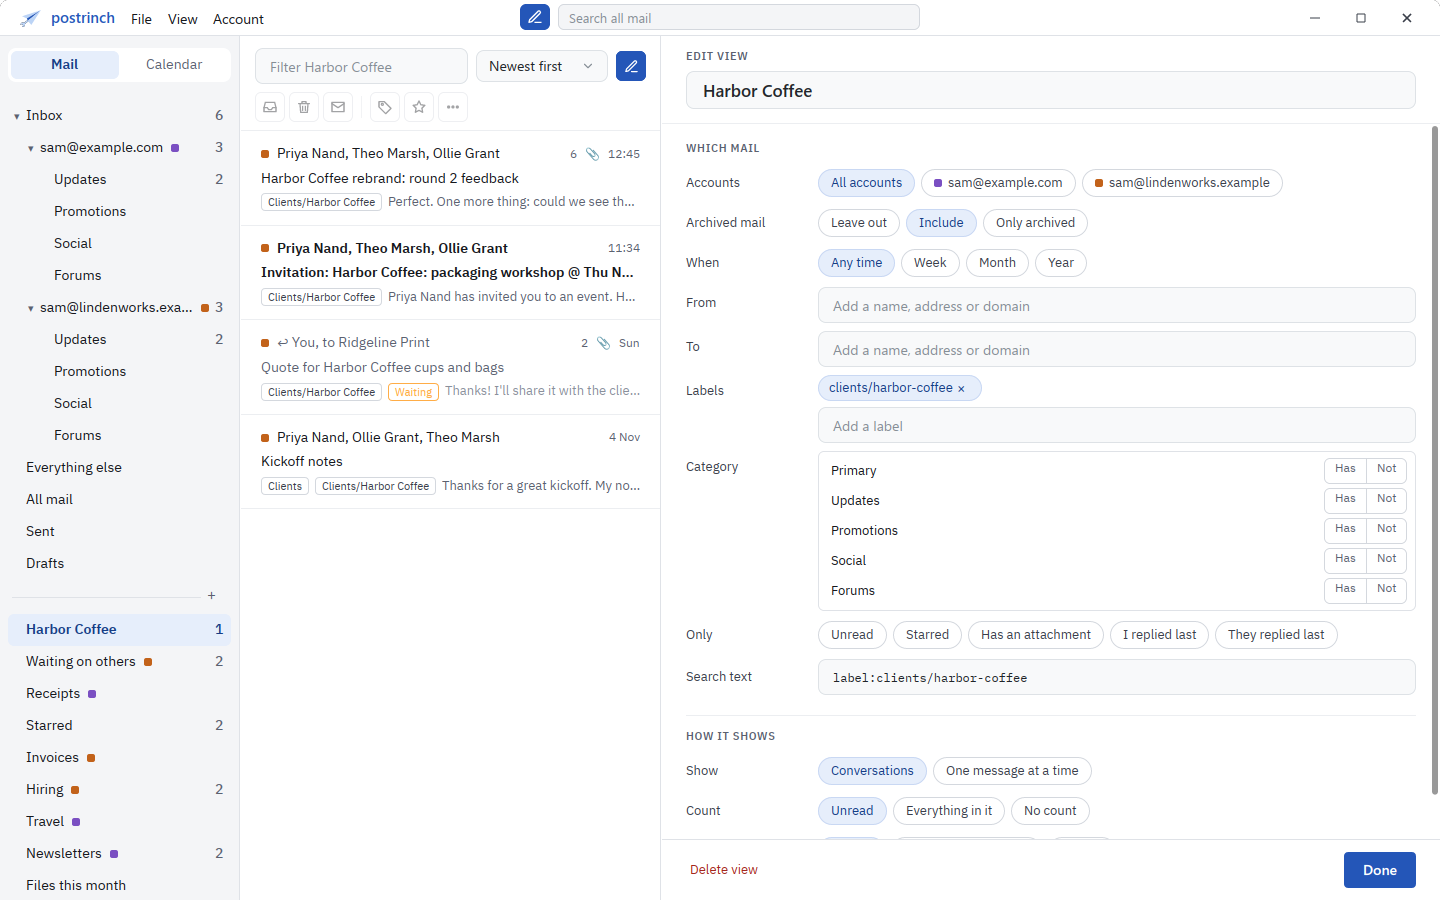
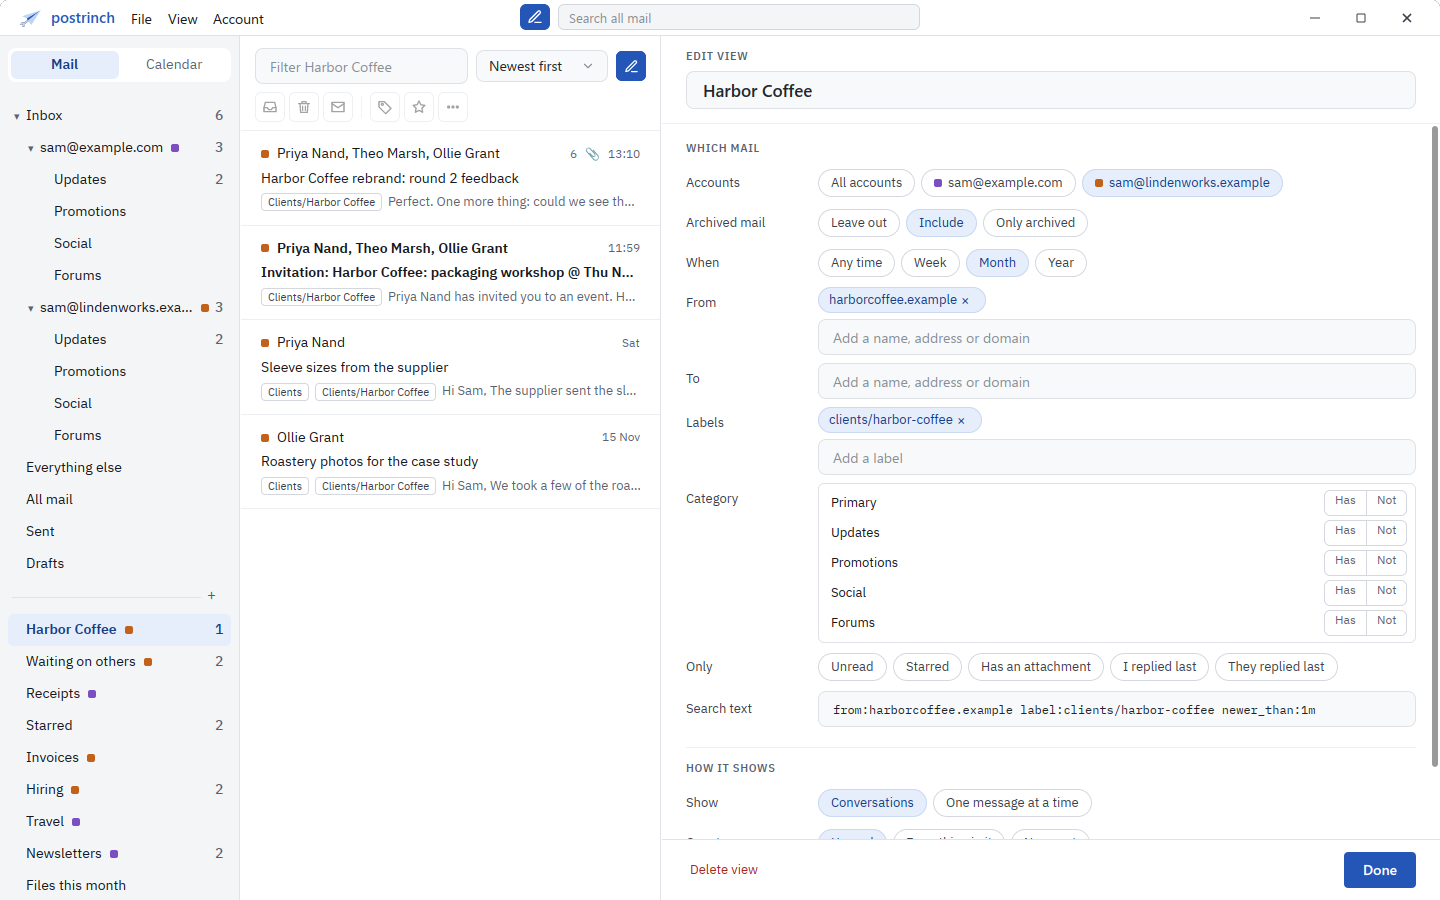
Demo store: dark shots, Claude connected, a fuller views panel
- Twelve shots: mail, views, search, calendar, rules and agents, each in
  light and dark, 1440x900 as the window rendered them.
- tools/demo-shots.py drives a demo window through rinch's debug server
  (clicks on elements found by their text, typing, keys) and takes them.
- The Harbor Coffee view filters on sender, label and month, so its
  panel shows several fields; two more Harbor threads fill its list.
- demo-window.sh gives the scratch HOME empty ~/.claude, Claude config
  and ~/.cursor folders, so Agents finds Claude and Cursor there, and
  unsets CODEX_HOME so the real one is never seen.

diff --git a/tools/demo-shots.py b/tools/demo-shots.py
@@ -1,0 +1,196 @@
+#!/usr/bin/env python3
+"""Take the website's screenshots from a demo window.
+
+    tools/demo-window.sh --debug <scratch>          # light; prints its pid
+    tools/demo-shots.py take <pid> site/public/assets/shots
+    tools/demo-window.sh --dark --debug <scratch>
+    tools/demo-shots.py take <pid> site/public/assets/shots --suffix -dark
+
+It drives the window through rinch's debug server, as a person would:
+clicks on elements found by their text, typing and keys, never anything
+the window could not do itself. Each shot is the 1440x900 window as it
+rendered. `find <pid> <selector> [text]` lists matching elements, for
+working out a new step.
+
+Only the standard library; the debug server's protocol is a 4-byte
+big-endian length, then JSON.
+"""
+
+import argparse
+import base64
+import json
+import os
+import socket
+import struct
+import sys
+import time
+
+
+class Window:
+    """One demo window's debug server."""
+
+    def __init__(self, pid):
+        with open(os.path.expanduser(f"~/.rinch/debug/{pid}.json")) as f:
+            found = json.load(f)
+        self.sock = socket.create_connection(("127.0.0.1", found["port"]))
+        self.next_id = 0
+        self._send({"protocol": "rinch-debug", "version": 1, "token": found["token"]})
+        self._recv()
+
+    def _send(self, obj):
+        data = json.dumps(obj).encode()
+        self.sock.sendall(struct.pack(">I", len(data)) + data)
+
+    def _exact(self, n):
+        out = b""
+        while len(out) < n:
+            chunk = self.sock.recv(n - len(out))
+            if not chunk:
+                raise EOFError("the window closed the connection")
+            out += chunk
+        return out
+
+    def _recv(self):
+        (n,) = struct.unpack(">I", self._exact(4))
+        return json.loads(self._exact(n))
+
+    def call(self, method, params=None):
+        self.next_id += 1
+        request = {"id": self.next_id, "method": method}
+        if params is not None:
+            request["params"] = params
+        self._send(request)
+        reply = self._recv()
+        if reply.get("type") == "error":
+            raise RuntimeError(f"{method}: {reply.get('message')}")
+        if reply.get("type") == "bytes":
+            return base64.b64decode(reply["data"])
+        return reply.get("data")
+
+    def find(self, selector, text=None):
+        """Elements matching `selector` whose text contains `text`, in
+        document order: those shown, as a hidden one has no size."""
+        found = self.call("query_selector", {"selector": selector}) or []
+        return [
+            e
+            for e in found
+            if e["absolute"]["width"] > 0
+            and e["absolute"]["height"] > 0
+            and (text is None or text in (e.get("text_content") or ""))
+        ]
+
+    def click(self, selector, text=None, nth=0, settle=0.8):
+        """Click the middle of the nth element matching (from the end when
+        negative), waiting for it to appear (up to five seconds)."""
+        for _ in range(25):
+            found = self.find(selector, text)
+            if len(found) >= (nth + 1 if nth >= 0 else -nth):
+                box = found[nth]["absolute"]
+                x = box["x"] + box["width"] / 2
+                y = box["y"] + box["height"] / 2
+                self.call("click", {"x": x, "y": y})
+                time.sleep(settle)
+                return
+            time.sleep(0.2)
+        raise LookupError(f"nothing matches {selector!r} with {text!r}")
+
+    def type(self, text):
+        self.call("type_text", {"text": text})
+
+    def key(self, key):
+        self.call("key_press", {"key": key, "shift": False, "ctrl": False, "alt": False})
+        time.sleep(0.8)
+
+    def shot(self, path):
+        png = self.call("screenshot")
+        with open(path, "wb") as f:
+            f.write(png)
+        width, height = struct.unpack(">II", png[16:24])
+        if (width, height) != (1440, 900):
+            raise RuntimeError(f"{path} is {width}x{height}, not 1440x900")
+        print(f"wrote {path}")
+
+
+def settings(w, section):
+    """Open Settings from the File menu, at `section`."""
+    w.click(".rinch-app-menu-item__label", "File")
+    w.click(".rinch-app-menu-entry", "Settings…")
+    w.click(".settings-nav .folder", section)
+
+
+def take(w, out, suffix):
+    """Take the six shots, in an order where each starts from where the
+    last left the window."""
+
+    def path(name):
+        return os.path.join(out, f"{name}{suffix}.png")
+
+    # Mail: the client thread, the message with its PDF open too.
+    w.click(".list .row", "Harbor Coffee rebrand: round 2 feedback")
+    w.click(".message-folded", "Here are our notes")
+    w.shot(path("mail"))
+
+    # Views: the person's Harbor Coffee view, its edit panel open beside
+    # the list it shows.
+    w.click(".view-row", "Harbor Coffee")
+    w.click("button.list-edit")
+    w.shot(path("views"))
+    w.click("button", "Done")
+
+    # Search: mail with files this month, a receipt open.
+    w.click("input[placeholder='Search all mail']")
+    w.type("has:attachment newer_than:30d")
+    w.key("Enter")
+    w.click(".list .row", "Your receipt from Paper Crane Shop")
+    w.shot(path("search"))
+    w.click(".unsaved .row-close")
+
+    # Calendar: this week, the workshop the person hasn't answered open.
+    w.click("button.mode", "Calendar", settle=1.5)
+    w.click(".cal-event", "Harbor Coffee: packaging workshop")
+    w.shot(path("calendar"))
+
+    # Rules: the work account's Harbor Coffee rule, in its editor.
+    settings(w, "Rules")
+    w.click(".rules-chip", "sam@lindenworks.example")
+    w.click(".rule-name", "Harbor Coffee", settle=1.5)
+    w.shot(path("rules"))
+    w.click(".rinch-modal button", "Cancel")
+
+    # Agents: Claude connected from here, as the person would.
+    w.click(".settings-nav .folder", "Agents")
+    w.click("button", "Connect")
+    w.click(".rinch-modal button", "Connect", nth=-1, settle=1.5)
+    w.shot(path("agents"))
+
+
+def main():
+    parser = argparse.ArgumentParser(description=__doc__.splitlines()[0])
+    sub = parser.add_subparsers(dest="command", required=True)
+    take_cmd = sub.add_parser("take", help="take every shot")
+    take_cmd.add_argument("pid")
+    take_cmd.add_argument("out", help="the folder the shots go in")
+    take_cmd.add_argument("--suffix", default="", help="after each name, e.g. -dark")
+    take_cmd.add_argument("--close", action="store_true", help="close the window after")
+    find_cmd = sub.add_parser("find", help="list elements matching a selector")
+    find_cmd.add_argument("pid")
+    find_cmd.add_argument("selector")
+    find_cmd.add_argument("text", nargs="?")
+    args = parser.parse_args()
+    w = Window(args.pid)
+    if args.command == "find":
+        for e in w.find(args.selector, args.text):
+            box = e["absolute"]
+            attrs = {k: v for k, v in e.get("attributes", {}).items() if not k.startswith("data-on")}
+            text = (e.get("text_content") or "")[:60]
+            print(f"{e.get('tag')} {attrs} {text!r} at ({box['x']:.0f},{box['y']:.0f}) "
+                  f"{box['width']:.0f}x{box['height']:.0f}")
+        return
+    os.makedirs(args.out, exist_ok=True)
+    take(w, args.out, args.suffix)
+    if args.close:
+        w.call("close_app")
+
+
+if __name__ == "__main__":
+    sys.exit(main())

diff --git a/crates/postrinch-demo/src/content_work.rs b/crates/postrinch-demo/src/content_work.rs
@@ -204,6 +204,25 @@ fn clients() -> Vec<ThreadSpec> {
             day(15, 11, 40),
             "Signed and attached. Looking forward to it!\n\nMarcus",
         )),
+        thread(
+            ME,
+            "Sleeve sizes from the supplier",
+            &[INBOX, PRIMARY, HARBOR, CLIENTS],
+        )
+        .msg(msg(
+            PRIYA,
+            &[ME],
+            day(3, 10, 40),
+            "Hi Sam,\n\nThe supplier sent the sleeve sizes: 8, 12 and 16 oz, all on the \
+                 same die line. Their template is on the review board.\n\nPriya",
+        )),
+        thread(ME, "Roastery photos for the case study", &[HARBOR, CLIENTS]).msg(msg(
+            OLLIE,
+            &[ME],
+            day(9, 14, 5),
+            "Hi Sam,\n\nWe took a few of the roaster and the bag wall this morning. \
+             Use whichever you like for the case study.\n\nOllie",
+        )),
         thread(ME, "Kickoff notes", &[HARBOR, CLIENTS]).msg(
             msg(
                 ME,

diff --git a/crates/postrinch-demo/tests/seed.rs b/crates/postrinch-demo/tests/seed.rs
@@ -88,7 +88,18 @@ fn the_inbox_lists_the_expected_threads() {
 fn views_and_search_find_the_demo_mail() {
     let (_dir, commands) = seeded();
     let harbor = subjects(&commands, &view(&commands, "Harbor Coffee"));
-    assert!(harbor.contains(&"Kickoff notes".to_owned()));
+    // Mail from Harbor Coffee this month: not Sam's own kickoff notes.
+    for expected in [
+        "Harbor Coffee rebrand: round 2 feedback",
+        "Sleeve sizes from the supplier",
+        "Roastery photos for the case study",
+    ] {
+        assert!(
+            harbor.iter().any(|s| s == expected),
+            "{expected} not in {harbor:?}"
+        );
+    }
+    assert!(!harbor.contains(&"Kickoff notes".to_owned()));
     assert!(harbor.iter().all(|s| !s.contains("Fernhill")));
     // Every view of the person's own shows some of the demo's mail.
     let own: Vec<_> = commands

diff --git a/crates/postrinch-demo/src/views_rules.rs b/crates/postrinch-demo/src/views_rules.rs
@@ -15,8 +15,8 @@ use crate::people::{LEDGERLY, PAPER_CRANE, PRIYA, SAM_HOME, SAM_WORK};
 const VIEWS: [(&str, &str, Option<&str>, ViewCount); 9] = [
     (
         "Harbor Coffee",
-        "label:clients/harbor-coffee",
-        None,
+        "from:harborcoffee.example label:clients/harbor-coffee newer_than:1m",
+        Some(SAM_WORK.address),
         ViewCount::Unread,
     ),
     (
